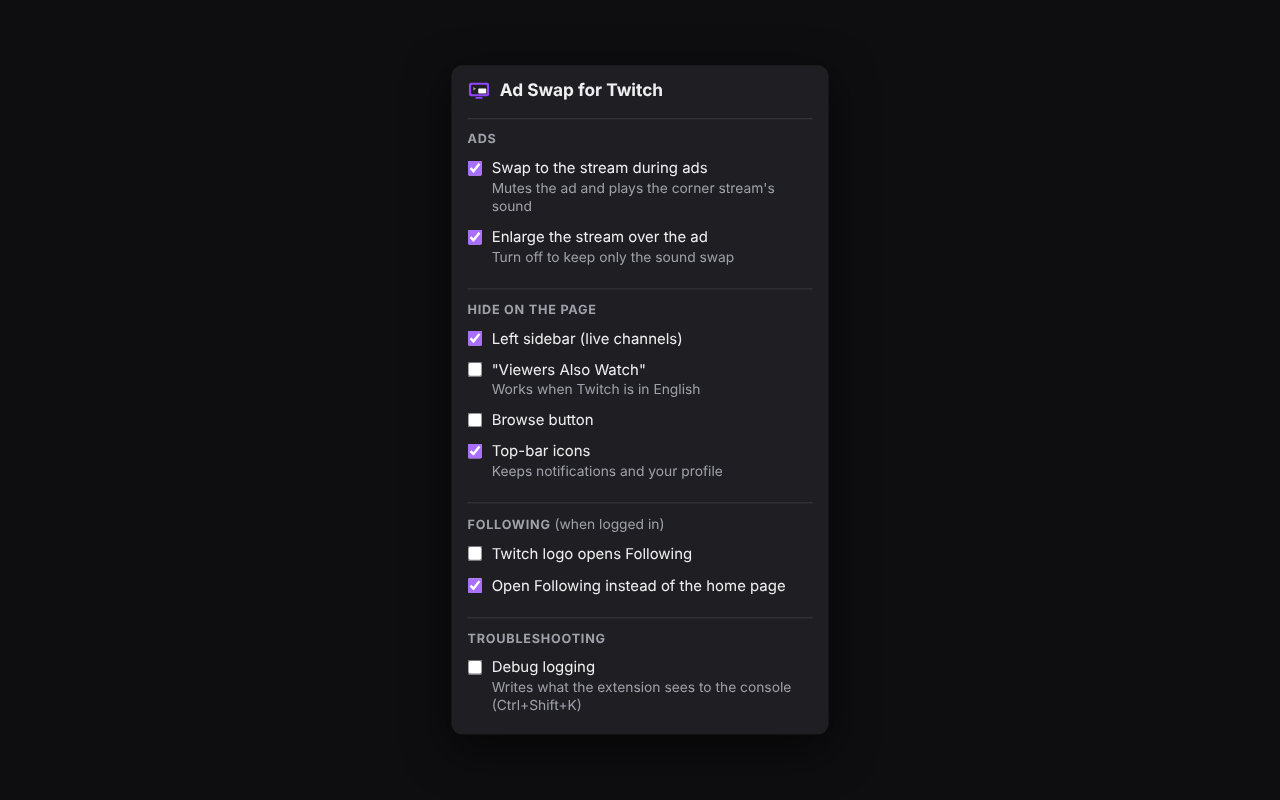
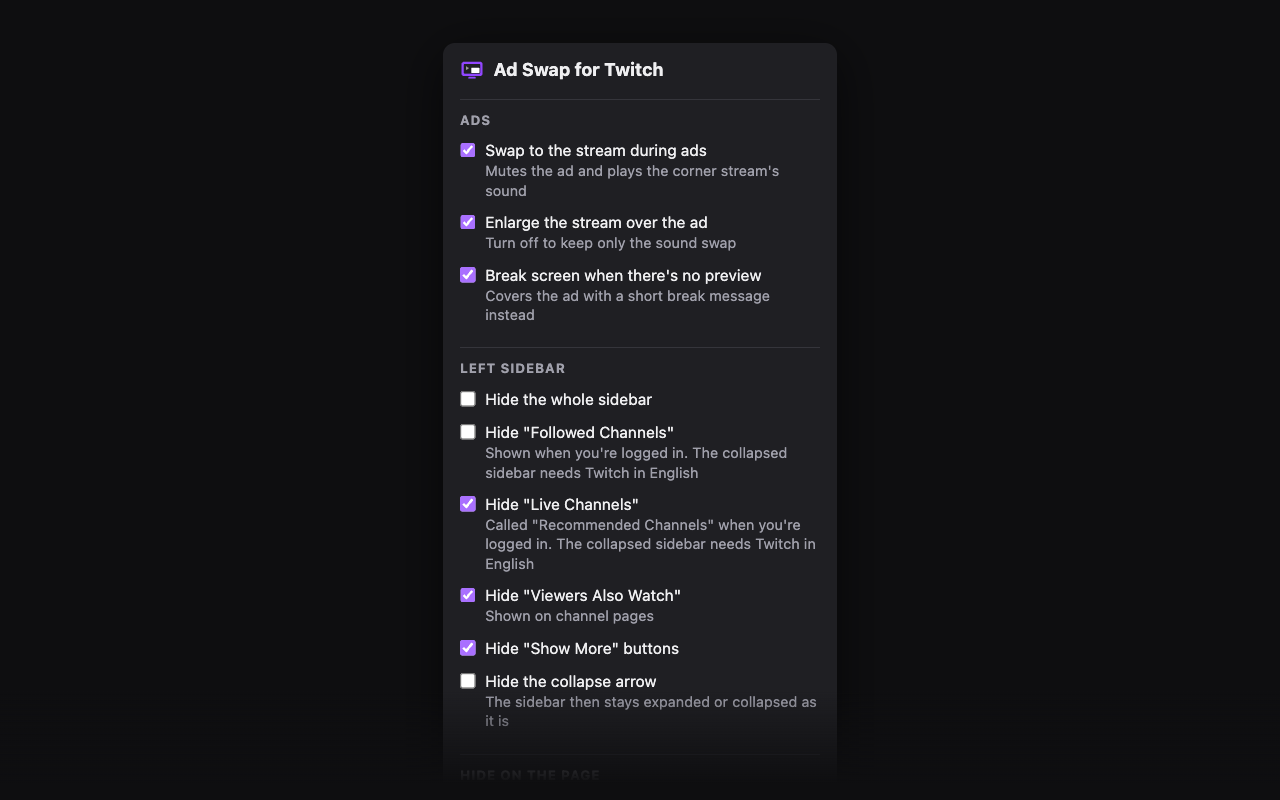
Separate "Hide" option for each left-sidebar part
Replace "Show only Followed Channels" with one checkbox per sidebar part:
Followed Channels, Live Channels, Viewers Also Watch, "Show More" buttons
and the collapse arrow, after "Hide the whole sidebar". Sections are found
by the kind of channel card they hold, so they work in any language; the
collapsed sidebar falls back to learned labels, the channel name, then
English names. The page-wide "Viewers Also Watch" option now skips the
sidebar, and users who had it on get the sidebar option switched on once.

Update the listing with combined 2.2.0 notes since 2.0.1, new reviewer
notes and a fresh menu screenshot, and the handover status.

Changed region(s): [[0.3438, 0.0625, 0.625, 0.5938], [0.3438, 0.625, 0.625, 0.9062]]

diff --git a/cleanup.js b/cleanup.js
@@ -1,7 +1,6 @@
-// Optional page tweaks: hide the left sidebar (or its Live Channels section, or all of it
-// but Followed Channels),
-// "Viewers Also Watch", the Browse
-// button and top-bar icons, and send the home page and the Twitch logo to Following.
+// Optional page tweaks: hide the left sidebar or any of its parts, "Viewers Also Watch"
+// elsewhere on the page, the Browse button and top-bar icons, and send the home page and
+// the Twitch logo to Following.
 (() => {
   const api = typeof browser !== "undefined" ? browser : chrome;
   const settings = { ...TAS_DEFAULTS };
@@ -15,9 +14,12 @@
     html.tas-hide-sidebar [data-a-target="side-nav-bar-collapsed"],
     html.tas-hide-sidebar #side-nav,
     html.tas-hide-sidebar .side-nav { display: none !important; }
+    html.tas-hide-followed [data-tas-side="followed"],
+    html.tas-hide-live [data-tas-side="live"],
+    html.tas-hide-side-also-watch [data-tas-side="also-watch"],
+    html.tas-hide-show-more [data-a-target^="side-nav-bar"] [data-a-target^="side-nav-show-"],
+    html.tas-hide-side-arrow [data-a-target="side-nav-arrow"] { display: none !important; }
     html.tas-hide-also-watch [data-tas-also-watch] { display: none !important; }
-    html.tas-followed-only [data-tas-side-section] { display: none !important; }
-    html.tas-hide-live [data-tas-live-section] { display: none !important; }
     html.tas-hide-browse a[data-a-target="browse-link"],
     html.tas-hide-browse nav a[href="/directory"] { display: none !important; }
     html.tas-hide-top-icons [data-tas-top-icon] { display: none !important; }
@@ -32,38 +34,52 @@
   }
   whenRootReady(() => (document.head || document.documentElement).appendChild(style));
 
-  // Sidebar sections: tag the Live/Recommended Channels section, and everything but
-  // Followed Channels, so either option can hide them.
-  const SIDEBAR = '[data-a-target="side-nav-bar"], #side-nav, .side-nav';
+  // Sidebar sections: tag each one by the kind of channel cards it holds, which works in
+  // every language (the headings are translated, these attributes are not).
+  // Expanded and collapsed sidebars are both "side-nav-bar..." targets.
+  const SIDEBAR = '[data-a-target^="side-nav-bar"], #side-nav, .side-nav';
   const SIDE_SECTION = '.side-nav-section, [role="group"]';
+  const SECTION_KINDS = [
+    ["followed", '[data-test-selector="followed-channel"]'],
+    ["live", '[data-test-selector="recommended-channel"]'],
+    ["also-watch", '[data-test-selector="similarity-channel"]'],
+  ];
 
-  function sectionName(section) {
-    const heading = section.querySelector("h2, h3, h4, h5, p");
-    return section.getAttribute("aria-label") || (heading ? heading.textContent : "");
+  // The collapsed sidebar's cards carry no such attributes, only the section's (translated)
+  // label. Labels seen in the expanded sidebar are remembered; "Viewers Also Watch" always
+  // names the channel; otherwise fall back to the English names.
+  const learned = new Map();
+  const ENGLISH = [["also-watch", /also watch/i], ["followed", /followed/i], ["live", /live channels|recommended/i]];
+
+  function sectionKind(section) {
+    const label = section.getAttribute("aria-label") || "";
+    const found = SECTION_KINDS.find(([, cards]) => section.querySelector(cards));
+    if (found) {
+      if (label) learned.set(label, found[0]);
+      return found[0];
+    }
+    if (learned.has(label)) return learned.get(label);
+    const channel = location.pathname.split("/")[1] || "";
+    if (channel.length > 2 && label.toLowerCase().includes(channel.toLowerCase())) return "also-watch";
+    const english = ENGLISH.find(([, name]) => name.test(label));
+    return english ? english[0] : null;
   }
 
   function markSidebarSections() {
     const nav = document.querySelector(SIDEBAR);
     if (!nav) return;
     const all = [...nav.querySelectorAll(SIDE_SECTION)];
-    const sections = all.filter((s) => !all.some((o) => o !== s && o.contains(s))); // outermost only
-    if (!sections.length) return;
-    // Followed Channels comes first when logged in, so that's the fallback in other languages.
-    const keep = sections.find((s) => /followed/i.test(sectionName(s))) || sections[0];
-    for (const s of sections) {
-      const name = sectionName(s).trim();
-      tag(s, "data-tas-side-section", sections.length > 1 && s !== keep, name);
-      tag(s, "data-tas-live-section", /live channels|recommended channels/i.test(name), name);
+    for (const s of all.filter((s) => !all.some((o) => o !== s && o.contains(s)))) { // outermost only
+      const kind = sectionKind(s);
+      if (kind === s.getAttribute("data-tas-side")) continue;
+      if (kind) s.setAttribute("data-tas-side", kind);
+      else s.removeAttribute("data-tas-side");
+      if (kind && settings.debug) console.log("[Ad Swap] sidebar section:", kind, s.getAttribute("aria-label") || "");
     }
   }
 
-  function tag(el, attr, on, name) {
-    if (on === el.hasAttribute(attr)) return;
-    el.toggleAttribute(attr, on);
-    if (on && settings.debug) console.log("[Ad Swap] sidebar section", attr, name.slice(0, 40));
-  }
-
-  // Twitch has no stable selector for this section, so find it by its heading text.
+  // Outside the sidebar Twitch has no stable selector for this section, so find it by its
+  // heading text.
   const ALSO_WATCH = /viewers also watch|also watch(ing)? this/i;
   const SECTION = 'section, [role="group"], .side-nav-section, [class*="shelf"], [class*="Shelf"]';
 
@@ -74,6 +90,7 @@
     for (let i = 0; i < found.snapshotLength; i++) {
       const el = found.snapshotItem(i);
       if (!ALSO_WATCH.test(el.textContent) || el.closest("[data-tas-also-watch]")) continue;
+      if (el.closest(SIDEBAR)) continue; // the sidebar's copy has its own option
       const section = el.closest(SECTION);
       // Never hide anything holding the player or the chat.
       if (!section || section.querySelector("video, .chat-shell, [data-a-target=\"chat-scroller\"]")) continue;
@@ -122,9 +139,12 @@
     const root = document.documentElement;
     if (!root) return whenRootReady(apply);
     root.classList.toggle("tas-hide-sidebar", !!settings.hideSidebar);
-    root.classList.toggle("tas-hide-also-watch", !!settings.hideAlsoWatch);
-    root.classList.toggle("tas-followed-only", !!settings.sidebarFollowedOnly);
+    root.classList.toggle("tas-hide-followed", !!settings.hideFollowedChannels);
     root.classList.toggle("tas-hide-live", !!settings.hideLiveChannels);
+    root.classList.toggle("tas-hide-side-also-watch", !!settings.hideSidebarAlsoWatch);
+    root.classList.toggle("tas-hide-show-more", !!settings.hideShowMore);
+    root.classList.toggle("tas-hide-side-arrow", !!settings.hideSidebarArrow);
+    root.classList.toggle("tas-hide-also-watch", !!settings.hideAlsoWatch);
     root.classList.toggle("tas-hide-browse", !!settings.hideBrowse);
     root.classList.toggle("tas-hide-top-icons", !!settings.hideTopIcons);
   }
@@ -174,6 +194,7 @@
   }, true);
 
   let loaded = false; // wait for saved settings before redirecting anything
+  TAS_MIGRATE(api.storage.sync).catch(() => {});
   api.storage.sync.get(settings).then((s) => { Object.assign(settings, s); loaded = true; apply(); checkHome(); });
   api.storage.onChanged.addListener((changes) => {
     for (const [k, { newValue }] of Object.entries(changes)) if (k in settings) settings[k] = newValue;
@@ -183,7 +204,7 @@
   apply();
   setInterval(() => {
     if (settings.hideAlsoWatch) markAlsoWatch();
-    if (settings.sidebarFollowedOnly || settings.hideLiveChannels) markSidebarSections();
+    if (settings.hideFollowedChannels || settings.hideLiveChannels || settings.hideSidebarAlsoWatch) markSidebarSections();
     if (settings.hideTopIcons) markTopIcons();
   }, 1000);
   setInterval(() => { if (loaded) { retargetLogo(); checkHome(); } }, 250);

diff --git a/popup.html b/popup.html
@@ -32,14 +32,19 @@
 
   <h2>Left sidebar</h2>
   <label><input type="checkbox" id="hideSidebar"><span>Hide the whole sidebar</span></label>
+  <label><input type="checkbox" id="hideFollowedChannels"><span>Hide "Followed Channels"</span>
+    <small>Shown when you're logged in. The collapsed sidebar needs Twitch in English</small></label>
   <label><input type="checkbox" id="hideLiveChannels"><span>Hide "Live Channels"</span>
-    <small>Also called "Recommended Channels". Works when Twitch is in English</small></label>
-  <label><input type="checkbox" id="sidebarFollowedOnly"><span>Show only "Followed Channels"</span>
-    <small>Hides every other section in the sidebar</small></label>
+    <small>Called "Recommended Channels" when you're logged in. The collapsed sidebar needs Twitch in English</small></label>
+  <label><input type="checkbox" id="hideSidebarAlsoWatch"><span>Hide "Viewers Also Watch"</span>
+    <small>Shown on channel pages</small></label>
+  <label><input type="checkbox" id="hideShowMore"><span>Hide "Show More" buttons</span></label>
+  <label><input type="checkbox" id="hideSidebarArrow"><span>Hide the collapse arrow</span>
+    <small>The sidebar then stays expanded or collapsed as it is</small></label>
 
   <h2>Hide on the page</h2>
   <label><input type="checkbox" id="hideAlsoWatch"><span>"Viewers Also Watch"</span>
-    <small>Works when Twitch is in English</small></label>
+    <small>Outside the sidebar. Works when Twitch is in English</small></label>
   <label><input type="checkbox" id="hideBrowse"><span>Browse button</span></label>
   <label><input type="checkbox" id="hideTopIcons"><span>Top-bar icons</span>
     <small>Keeps notifications and your profile</small></label>

diff --git a/defaults.js b/defaults.js
@@ -2,8 +2,15 @@
 // Only the ad swap is on out of the box; the page tweaks are opt-in.
 globalThis.TAS_DEFAULTS = {
   enabled: true, enlarge: true, breakScreen: true,
-  hideSidebar: false, sidebarFollowedOnly: false, hideLiveChannels: false,
+  hideSidebar: false, hideFollowedChannels: false, hideLiveChannels: false,
+  hideSidebarAlsoWatch: false, hideShowMore: false, hideSidebarArrow: false,
   hideAlsoWatch: false, hideBrowse: false, hideTopIcons: false,
   logoToFollowing: false, startOnFollowing: false,
   debug: false,
 };
+
+// Up to 2.0.1, "Viewers Also Watch" also hid the sidebar's copy, which now has its own
+// setting: carry it over once so nothing reappears after the update.
+globalThis.TAS_MIGRATE = (storage) => storage.get(null).then((s) => {
+  if (s.hideAlsoWatch && !("hideSidebarAlsoWatch" in s)) return storage.set({ hideSidebarAlsoWatch: true });
+});

diff --git a/popup.js b/popup.js
@@ -5,7 +5,7 @@ const defaults = TAS_DEFAULTS;
 const isPopup = api.extension.getViews({ type: "popup" }).includes(window);
 if (!isPopup) document.body.classList.add("page");
 
-api.storage.sync.get(defaults).then((s) => {
+TAS_MIGRATE(api.storage.sync).catch(() => {}).then(() => api.storage.sync.get(defaults)).then((s) => {
   for (const key of Object.keys(defaults)) {
     const box = document.getElementById(key);
     box.checked = s[key];

diff --git a/LISTING.md b/LISTING.md
@@ -19,8 +19,8 @@ When an ad break starts on Twitch, Twitch often keeps the live stream playing in
 Ads still play, and channels still get credit for them. Ad Swap doesn't block or skip anything; it just lets you keep following the stream while they run.
 
 Optional page tweaks (all off by default, switch them on in the extension's menu):
-• Hide the left sidebar, just its "Live Channels" section, or everything but your Followed Channels
-• Hide "Viewers Also Watch" (when Twitch is in English)
+• Hide the whole left sidebar, or each part of it on its own: Followed Channels, Live Channels (Recommended Channels), Viewers Also Watch, the "Show More" buttons and the collapse arrow
+• Hide "Viewers Also Watch" elsewhere on the page (when Twitch is in English)
 • Hide the Browse button
 • Hide top-bar icons, keeping notifications and your profile
 • Make the Twitch logo open your Following page
@@ -35,11 +35,11 @@ Ad Swap collects no data and talks to no servers. Settings are stored in your br
 
 This extension is not affiliated with or endorsed by Twitch.
 
-## Version notes for 2.1.0
-New: when an ad plays without a stream preview, a break screen covers the ad (can be switched off). New option to keep the sidebar but show only Followed Channels. Smoother hand-back when the ad ends: no black gap, and the stream's sound returns sooner.
-
-## Version notes for 2.2.0
-The left sidebar options are now separate: hide the whole sidebar, hide only the "Live Channels" section, or show only "Followed Channels".
+## Version notes for 2.2.0 (everything since 2.0.1)
+• New break screen: when an ad plays and Twitch shows no stream preview, a calm break screen with the ad countdown covers the ad. You can switch it off in the menu.
+• Smoother end of ads: the stream stays up until the main video is playing again, so there's no black gap, and its sound comes back sooner.
+• Faster switching when an ad starts: ads are detected sooner, so the stream takes over more quickly.
+• Left sidebar: hide each part on its own (Followed Channels, Live Channels, Viewers Also Watch, the "Show More" buttons, the collapse arrow), or the whole sidebar. Sections are recognised in any language in the expanded sidebar. If you had "Viewers Also Watch" switched on, the new sidebar option is switched on for you.
 
 ## Category
 Photos, Music & Videos
@@ -54,10 +54,14 @@ MIT License
 Not needed: the extension collects no data (declared in the manifest).
 
 ## Notes to reviewer
-No build step: the uploaded files are the source. The extension only runs on twitch.tv. It watches the Twitch player for ad breaks, mutes the ad video, unmutes Twitch's own small live preview and restyles it to cover the player, then restores everything when the ad ends. The optional tweaks hide page elements with CSS and redirect the home page and logo to /directory/following for logged-in users. No network requests, no remote code, and only the "storage" permission.
+No build step and no minified or generated code: the uploaded files are the source. The extension only runs on twitch.tv and m.twitch.tv. It watches the Twitch player for ad breaks, mutes the ad video, unmutes Twitch's own small live preview and restyles it to cover the player, then restores everything when the ad ends. When there is no preview, it covers the ad with a static "break" overlay built with DOM methods (no innerHTML from page data). The optional tweaks tag page elements with data attributes and hide them with a CSS rule keyed on a class on <html>; they also redirect the home page and logo to /directory/following for logged-in users. A one-time settings migration copies one stored option to a new key in storage.sync. No network requests, no remote code, no data collection, and only the "storage" permission.
+
+Changes since the last approved version (2.0.1): the break screen, a smoother hand-back at the end of ads, faster ad detection, and separate options for each part of the left sidebar.
+
+To test: open any live channel on twitch.tv and wait for an ad break. The sidebar options can be checked on any channel page from the toolbar menu; they apply instantly.
 
 ## Screenshots to take (1280×800 works well)
 1. During an ad break: the enlarged stream covering the player.
 2. The same moment without the extension, showing the small preview in the corner (for comparison).
 3. The settings menu (`screenshot-menu.png` in this folder).
-4. A channel page with the page tweaks switched on.
+4. A channel page with the page tweaks switched on (for example Live Channels and the Browse button hidden).

diff --git a/HANDOFF.md b/HANDOFF.md
@@ -13,7 +13,15 @@ No build step: these files are the source and get zipped as-is for upload.
   shows a break screen when there is no preview, and hands back to the stream at the end
   without a black gap (keeps the preview up until the main video is moving again, max 4 s).
 - `cleanup.js`: optional page tweaks (sidebar options, "Viewers Also Watch", Browse button,
-  top-bar icons, Following redirects for logged-in users).
+  top-bar icons, Following redirects for logged-in users). Each left-sidebar part has its own
+  "Hide" setting. Sections are tagged `data-tas-side="followed|live|also-watch"` by the kind of
+  channel card they hold (`data-test-selector="followed-channel|recommended-channel|similarity-channel"`),
+  which works in any language. The collapsed sidebar's cards have no such attribute, so there
+  it uses section labels seen in the expanded sidebar, the channel's name (for "Viewers Also
+  Watch"), then the English names. The "Show More" buttons and collapse arrow are hidden by
+  their `data-a-target`. The page-wide "Viewers Also Watch" option skips the sidebar.
+- `defaults.js` also holds `TAS_MIGRATE`: users of 2.0.1 who had "Viewers Also Watch" on get
+  the new sidebar option switched on once.
 - `popup.html` / `popup.js`: the settings menu, also used as the add-on's options page.
   Settings are saved with `storage.sync`.
 - `LISTING.md`: text for the addons.mozilla.org listing and version notes.
@@ -33,11 +41,27 @@ about:debugging in Zen, then Load Temporary Add-on, and pick `manifest.json`.
 - Twitch's page markup was matched from best guesses and confirmed by hand-testing in Zen;
   if something stops working, Twitch probably changed its markup. Turn on Debug logging.
 - Fullscreen during a real ad was never confirmed.
-- "Viewers Also Watch" and "Live Channels" are found by their English names.
+- "Viewers Also Watch" outside the sidebar is found by its English name, and so are
+  Followed/Live Channels in the collapsed sidebar if the expanded one wasn't seen first.
+- The Followed Channels marker (`followed-channel`) was never seen: all checks so far were
+  logged out. Check it logged in, with Debug logging on (it logs each section it tags).
 
-## Status (end of the first cloud session)
-- Live on addons.mozilla.org: 2.0.1. Built but possibly not yet uploaded: 2.1.0 and 2.2.0
-  (this repository is at 2.2.0). Check the Developer Hub for the latest uploaded version.
-- 2.1.0 added the break screen, the smoother end of ad, and faster ad detection.
-  2.2.0 split the sidebar options (whole sidebar / Live Channels / Followed only).
-- Both were tested on stand-in pages only; check them on real Twitch.
+## Status (2026-10-31)
+- Live on addons.mozilla.org: 2.0.1. 2.1.0 was never uploaded, and neither was 2.2.0 until now.
+  The next upload is 2.2.0 and its version notes in `LISTING.md` cover everything since 2.0.1.
+- 2.2.0 now includes:
+  - the break screen;
+  - the smoother end of ads;
+  - faster ad detection;
+  - one "Hide" option per left-sidebar part (whole sidebar, Followed Channels, Live Channels,
+    Viewers Also Watch, "Show More" buttons, collapse arrow). This replaced "Show only
+    Followed Channels".
+- The sidebar options were tested on real twitch.tv, logged out, by injecting `defaults.js` and
+  `cleanup.js` into headless Chromium:
+  - each option on its own and combined;
+  - expanded and collapsed sidebar;
+  - English and German.
+  Not yet checked: logged in (Followed Channels), and inside Firefox/Zen itself.
+- The ad swap itself (2.1.0 changes) was tested on stand-in pages only; check it on real Twitch.
+- Store icon: `icons/icon-128.png` (128×128, transparent) is ready but still has to be
+  uploaded on the Developer Hub product page. `screenshot-menu.png` shows the 2.2.0 menu.
